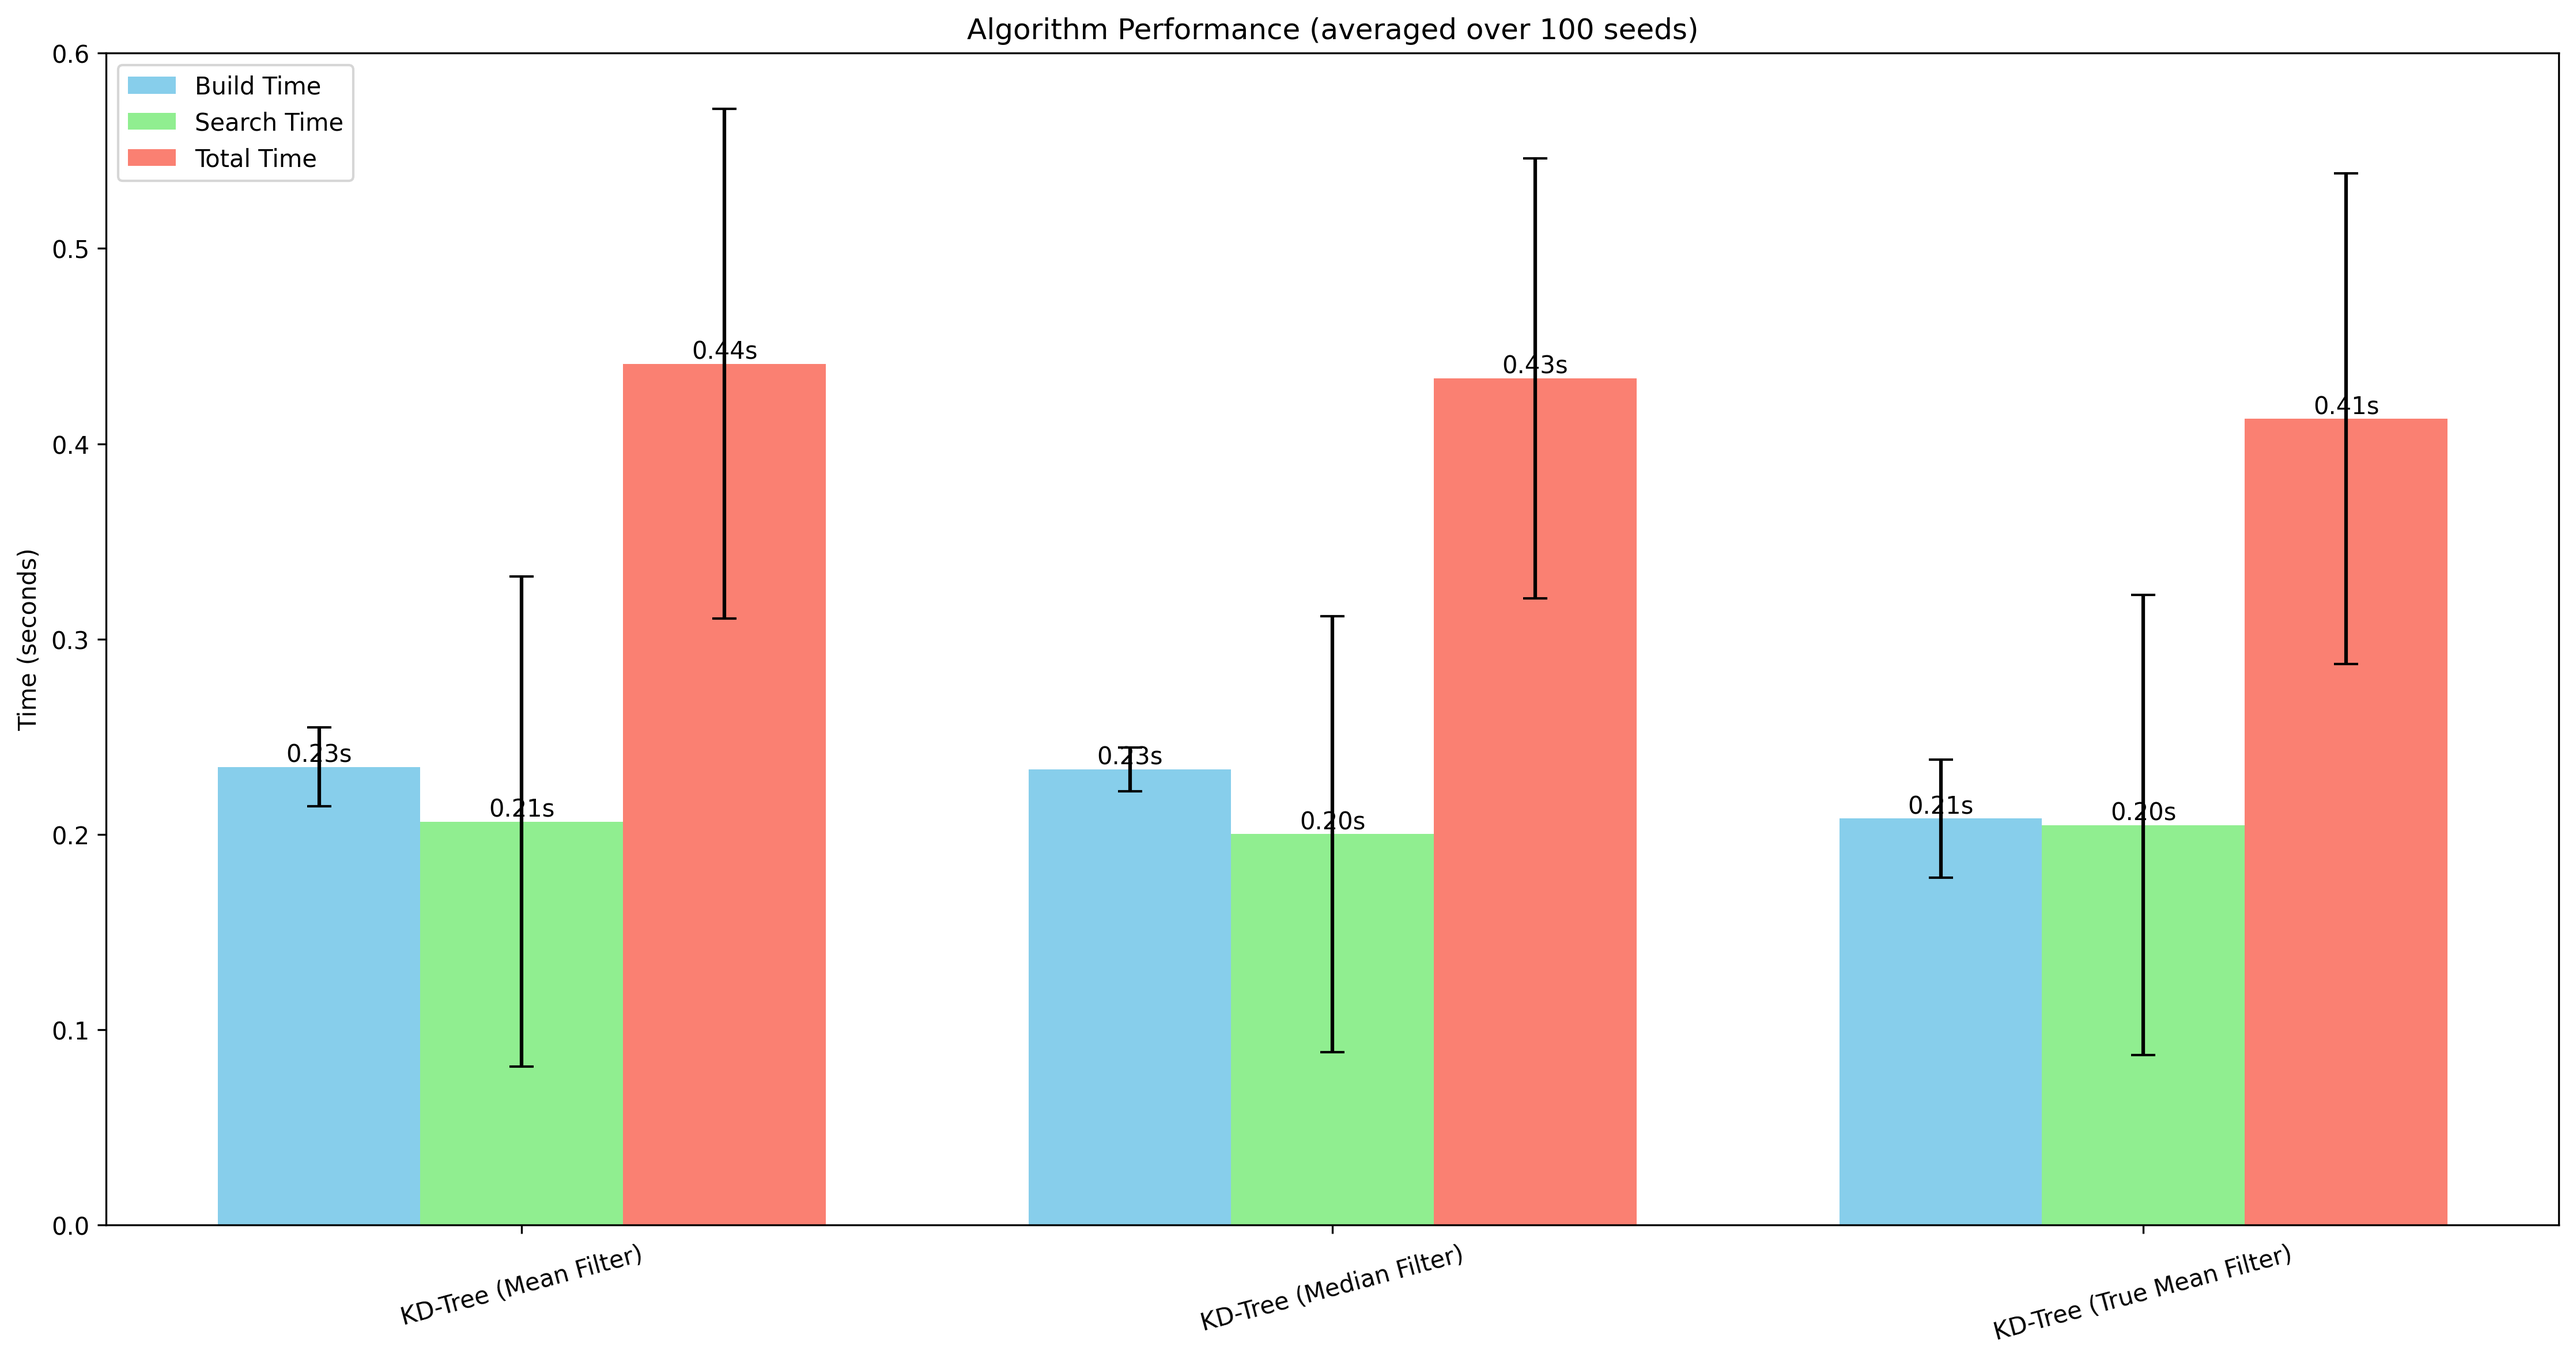
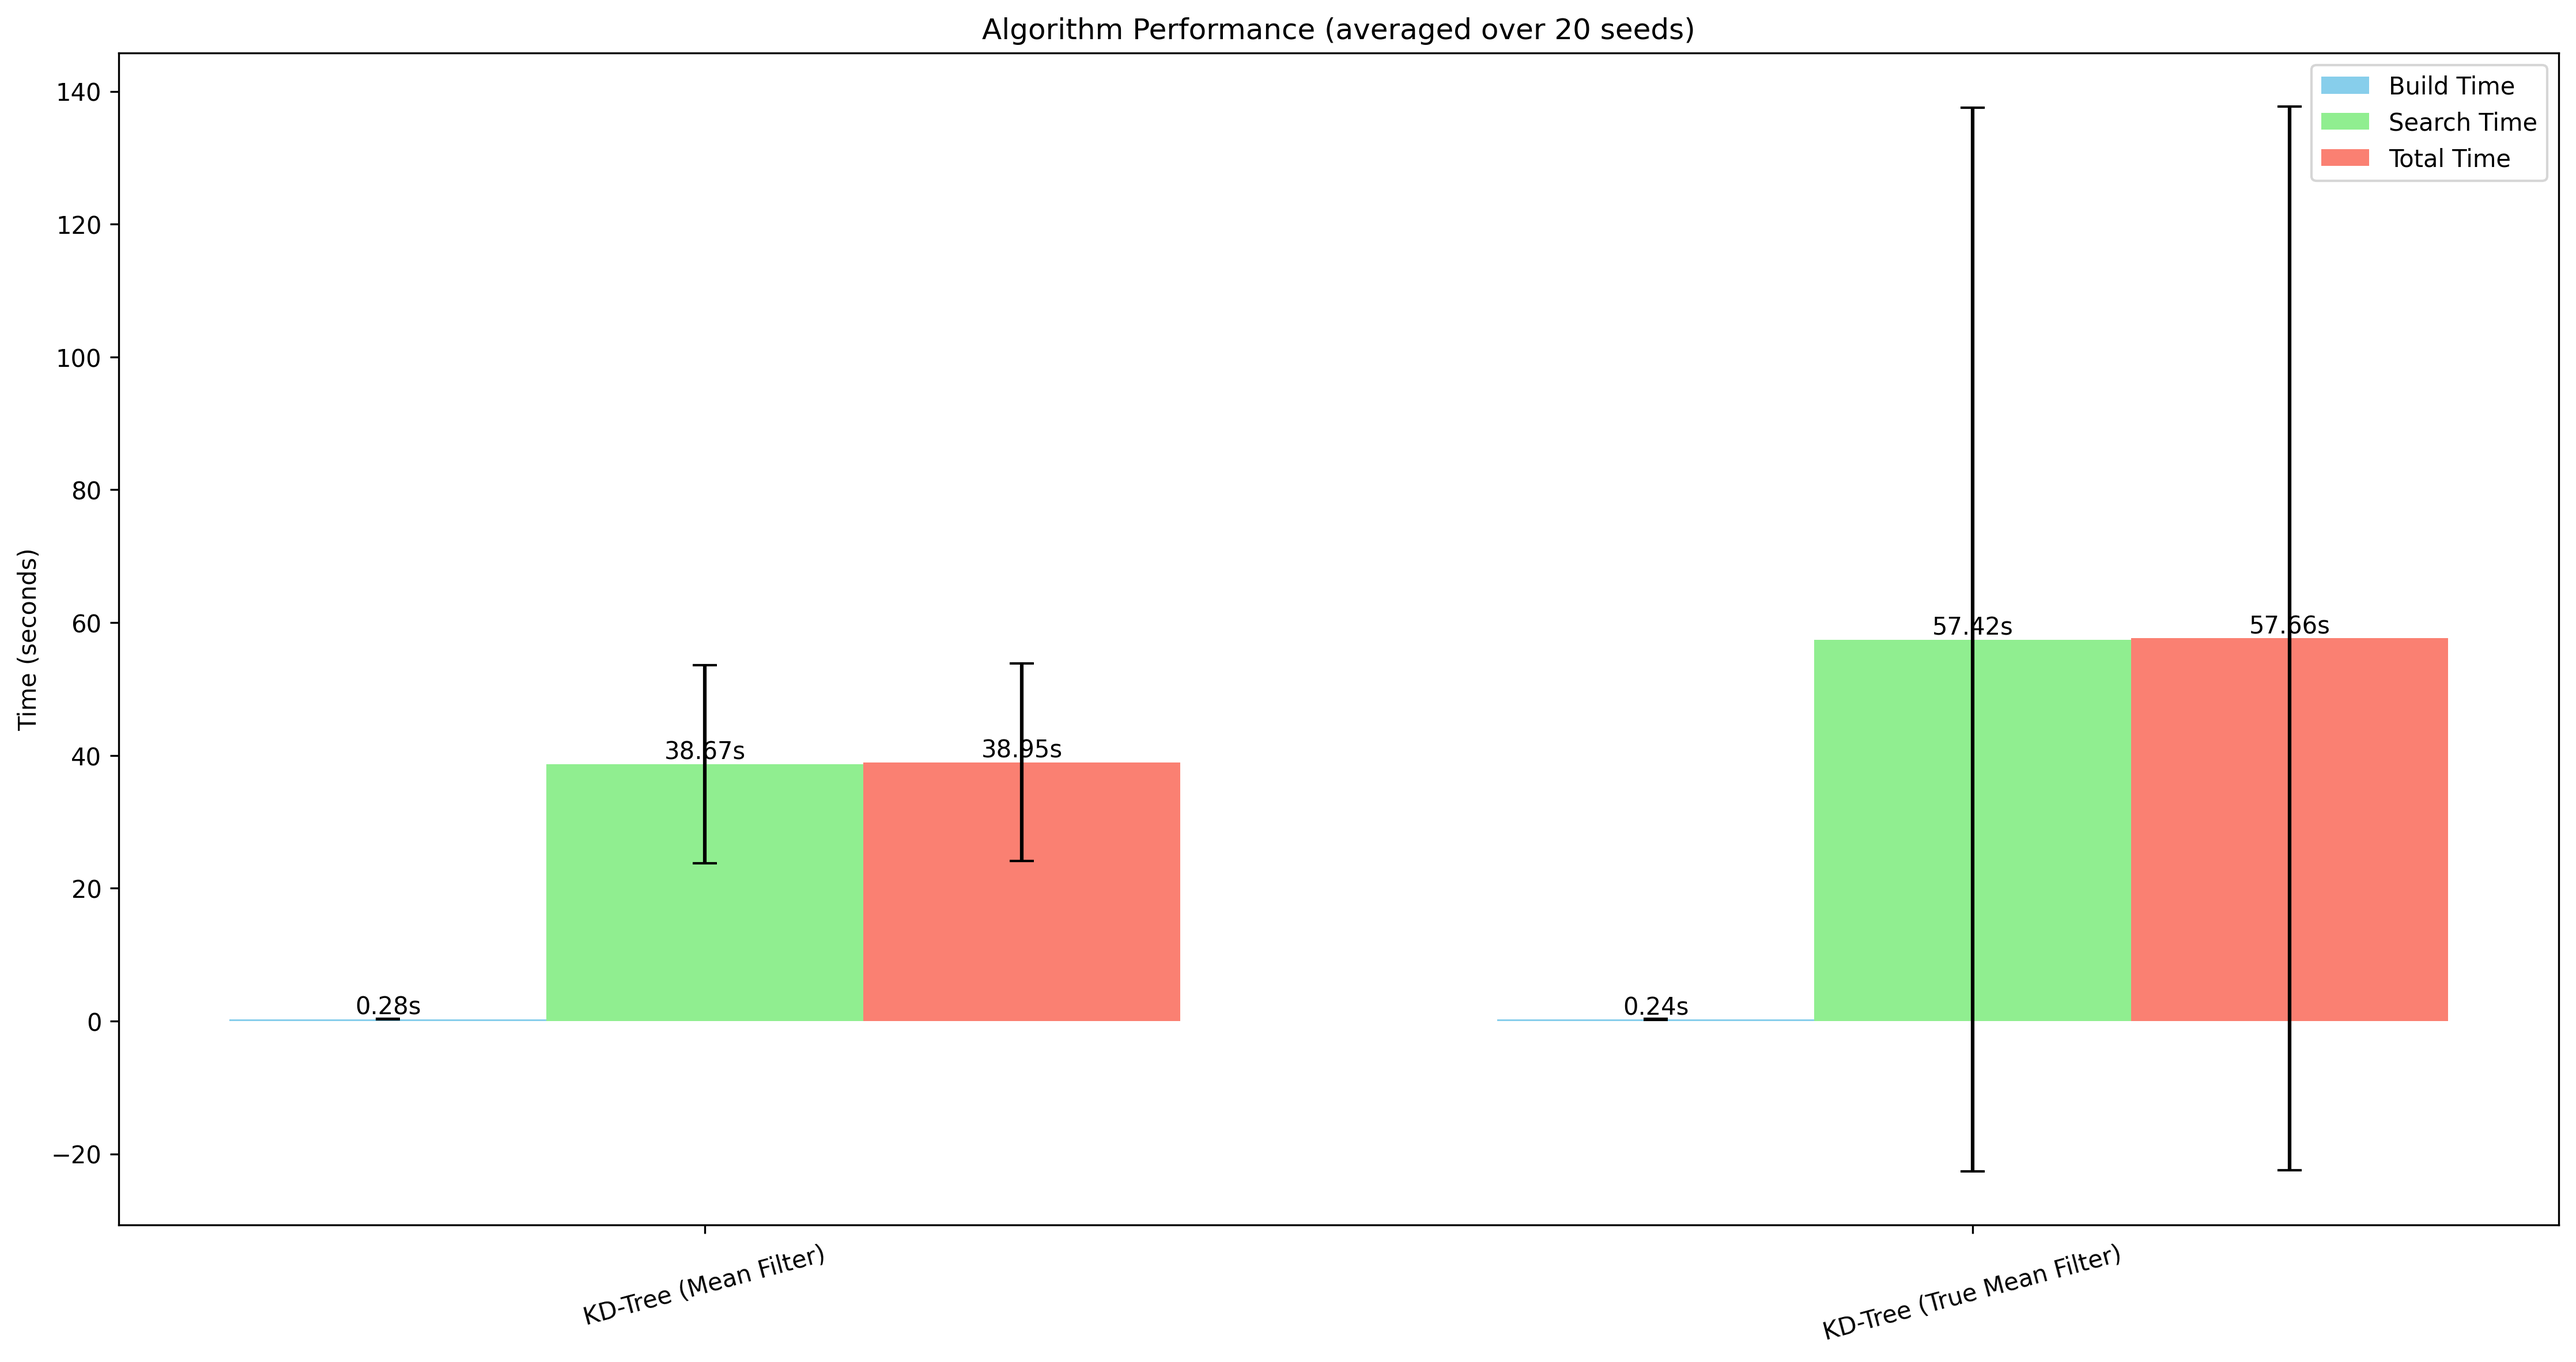
small edit

diff --git a/config.py b/config.py
@@ -1,9 +1,8 @@
 # Configuration parameters for vector search algorithms
-VECTOR_SEARCH_CONFIG = {
-    'n_database': 100000,
-    'n_queries': 1000,
+VECTOR_SEARCH_CONFIG = {   'n_database': 100000,
+    'n_queries': 5000,
     'dimension': 250,
-    'threshold': 5.9,  # Increased threshold to account for high dimensionality
+    'threshold': 5.8,  # Increased threshold to account for high dimensionality
     'seed': 1,
-    'n_seeds': 100  # Number of different random seeds to use for experiments
+    'n_seeds': 20  # Number of different random seeds to use for experiments
 } 

diff --git a/run_experiments.py b/run_experiments.py
@@ -43,7 +43,7 @@ class AlgorithmRunner:
            # 'Brute Force': run_bruteforce,
            # 'KD-Tree (Vanilla)': run_kdtree_vanilla,
             'KD-Tree (Mean Filter)': run_kdtree_mean_filter,
-            'KD-Tree (Median Filter)': run_kdtree_median_filter,
+           # 'KD-Tree (Median Filter)': run_kdtree_median_filter,
           #  'KD-Tree (Random Filter)': run_kdtree_random_filter,
             'KD-Tree (True Mean Filter)': run_kdtree_true_mean_filter
         }
